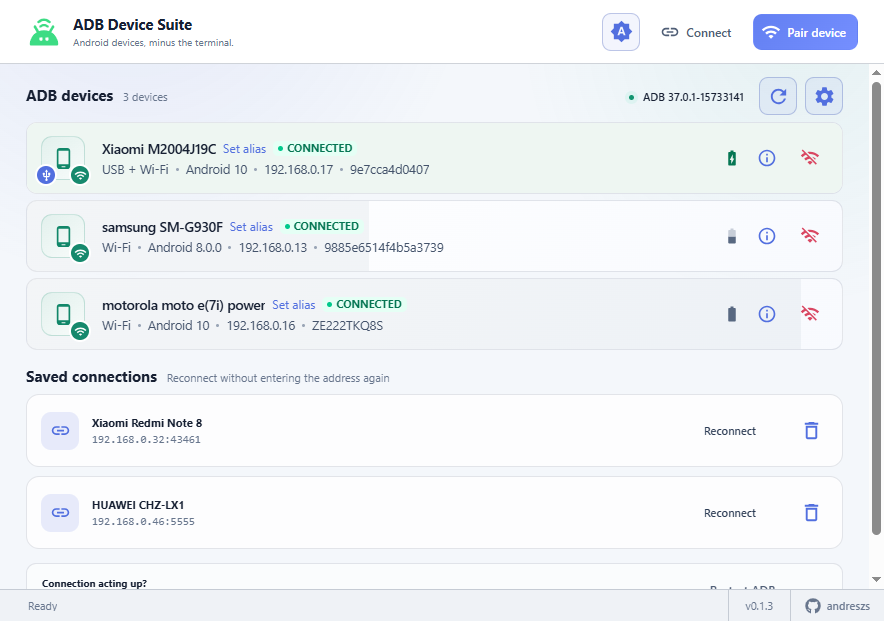
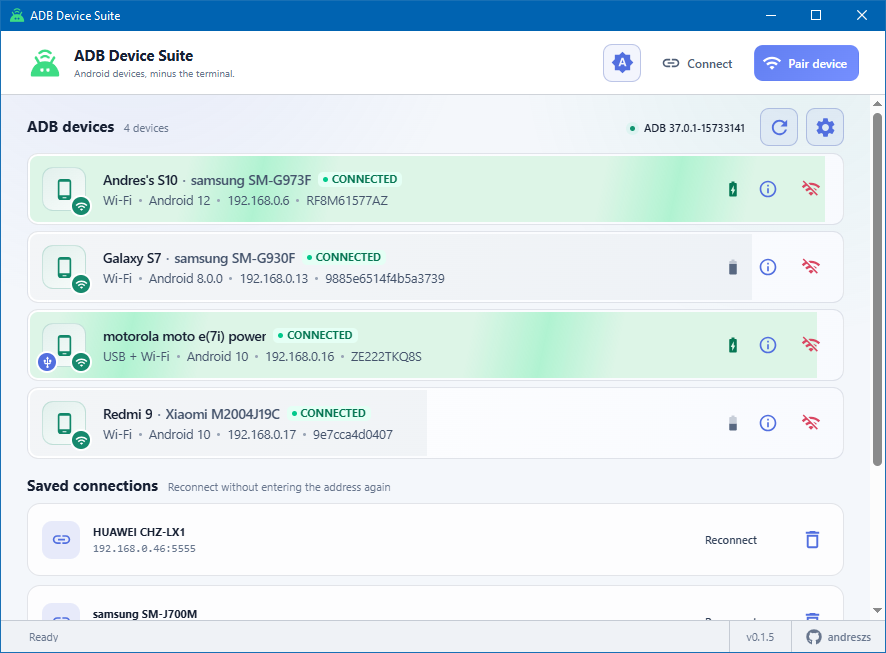
fix: stabilize device grouping and refresh documentation

diff --git a/src/App.tsx b/src/App.tsx
@@ -39,7 +39,7 @@ import { FaGithub } from "react-icons/fa6";
 import { useTranslation } from "react-i18next";
 import type { TFunction } from "i18next";
 import { APP_LANGUAGES, systemLanguage } from "./i18n/languages";
-import { mdnsServiceMatchesDevice, savedConnectionMatchesDevice } from "./device-identity.mjs";
+import { mdnsServiceMatchesDevice, savedConnectionMatchesDevice, stableDeviceSerial } from "./device-identity.mjs";
 
 const EMPTY_SNAPSHOT: AdbSnapshot = {
   adb: { available: false, path: null, version: null, error: null },
@@ -149,6 +149,20 @@ function formatDeviceName(device: AdbDevice, t: TFunction) {
   return pieces.filter((part, index) => index === 0 || part.toLowerCase() !== pieces[0]?.toLowerCase()).join(" ") || t("common.androidDevice");
 }
 
+function deviceGroupDisplayName(group: DeviceGroup, t: TFunction) {
+  const modelName = formatDeviceName(group.primary, t);
+  const deviceName = group.devices
+    .map((device) => device.deviceName?.trim())
+    .find((name) => name && ![modelName, group.primary.model, group.primary.device]
+      .filter(Boolean)
+      .some((candidate) => candidate!.toLowerCase() === name.toLowerCase()));
+  return deviceName || modelName;
+}
+
+function compareDeviceNames(left: string, right: string) {
+  return left.localeCompare(right, undefined, { sensitivity: "base", numeric: true });
+}
+
 function stateLabel(state: string, t: TFunction) {
   if (state === "device") return t("common.connected");
   if (state === "unauthorized") return "unauthorized";
@@ -188,9 +202,9 @@ function createQrPairingCredentials() {
 function groupDevices(devices: AdbDevice[]): DeviceGroup[] {
   const grouped = new Map<string, AdbDevice[]>();
   for (const device of devices) {
-    const hardwareSerial = device.hardwareSerial?.trim();
+    const hardwareSerial = stableDeviceSerial(device);
     const key = hardwareSerial
-      ? `serial:${hardwareSerial}`
+      ? `serial:${hardwareSerial.toLowerCase()}`
       : `transport:${device.connection}:${device.serial}`;
     const existing = grouped.get(key);
     if (existing) existing.push(device);
@@ -269,12 +283,8 @@ function DeviceCard({
     || devices.find((device) => device.state === "unauthorized")
     || devices[0];
   const modelName = formatDeviceName(primary, t);
-  const deviceName = devices
-    .map((device) => device.deviceName?.trim())
-    .find((name) => name && ![modelName, primary.model, primary.device]
-      .filter(Boolean)
-      .some((candidate) => candidate!.toLowerCase() === name.toLowerCase())) || null;
-  const displayName = deviceName || modelName;
+  const displayName = deviceGroupDisplayName(group, t);
+  const deviceName = displayName !== modelName ? displayName : null;
   const androidVersion = devices.find((device) => device.androidVersion)?.androidVersion;
   const ipAddress = wifi?.ipAddress || devices.find((device) => device.ipAddress)?.ipAddress;
   const ipAddresses = [...new Set(devices.flatMap((device) => device.ipAddresses || (device.ipAddress ? [device.ipAddress] : [])))];
@@ -1151,12 +1161,24 @@ export default function App() {
     return [...unique.values()];
   }, [snapshot.devices, snapshot.services]);
 
-  const deviceGroups = useMemo(() => groupDevices(snapshot.devices), [snapshot.devices]);
+  const deviceGroups = useMemo(
+    () => groupDevices(snapshot.devices)
+      .sort((left, right) => compareDeviceNames(
+        deviceGroupDisplayName(left, t),
+        deviceGroupDisplayName(right, t),
+      )),
+    [snapshot.devices, t],
+  );
 
   const disconnectedSavedConnections = useMemo(
-    () => settings.savedConnections.filter((saved) => (
-      !snapshot.devices.some((device) => savedConnectionMatchesDevice(saved, device))
-    )),
+    () => settings.savedConnections
+      .filter((saved) => (
+        !snapshot.devices.some((device) => savedConnectionMatchesDevice(saved, device))
+      ))
+      .sort((left, right) => compareDeviceNames(
+        left.label || left.endpoint,
+        right.label || right.endpoint,
+      )),
     [settings.savedConnections, snapshot.devices],
   );
 

diff --git a/README.md b/README.md
@@ -26,9 +26,19 @@ ADB Device Suite is a local-first desktop application for discovering, pairing, 
 
 ## Screenshots
 
+### Device overview
+
 ![ADB Device Suite main window showing connected Android devices](docs/screenshots/main-window.png)
 
+### Settings
+
 ![ADB Device Suite settings dialog](docs/screenshots/settings-dialog.png)
+
+### Wireless pairing
+
+| Pairing code | QR code |
+| --- | --- |
+| ![Pair an Android device using its six-digit wireless debugging code](docs/screenshots/pairing-code-dialog.png) | ![Pair an Android device by scanning a wireless debugging QR code](docs/screenshots/qr-pairing-dialog.png) |
 
 ## Features
 

diff --git a/CHANGELOG.md b/CHANGELOG.md
@@ -4,6 +4,14 @@ All notable changes to ADB Device Suite will be documented in this file.
 
 ## [Unreleased]
 
+### Changed
+
+- Connected devices and saved connections are sorted naturally by device name, case-insensitively.
+
+### Fixed
+
+- USB and Wi-Fi transports remain grouped when USB metadata is temporarily unavailable but its ADB serial matches the device hardware serial.
+
 ## [0.1.5] - 2026-10-28
 
 ### Fixed
